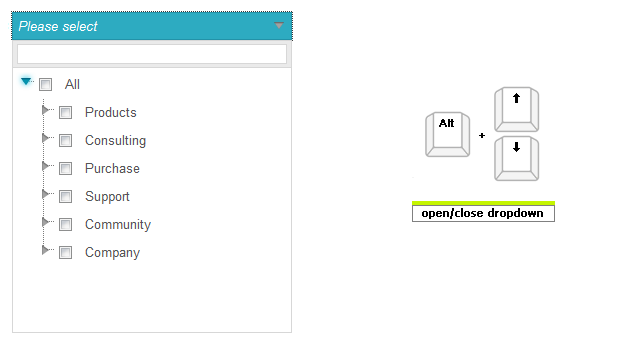
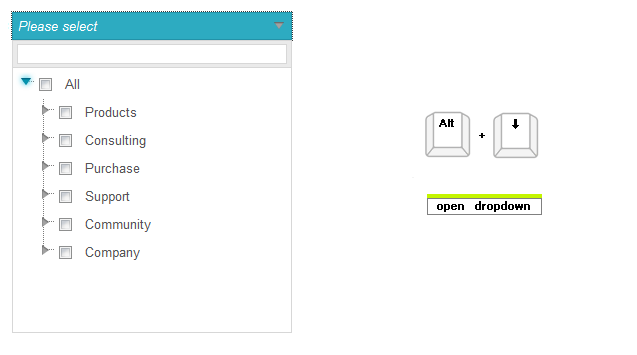
docs(dropDownTree): correct the keyboard navigation support

Changed region(s): [[0.6264, 0.2479, 0.8948, 0.6197]]

diff --git a/controls/dropdowntree/accessibility-and-internationalization/keyboard-support.md b/controls/dropdowntree/accessibility-and-internationalization/keyboard-support.md
@@ -14,19 +14,37 @@ position: 0
 
 ## Keyboard support
 
-As a part of Q2 2013 **RadDropDownTree** control introduces fully built-in **Keyboard Support**
+As a part of Q2 2013 **RadDropDownTree** control introduces fully built-in **Keyboard Support**. If you set a **TabIndex** to it, you can also focus it like a simple form input through the **Tab** key along with other inputs on the page.
 
-* **Access Keys** - You can specify a key that lets the end-users move the focus directly to the RadDropDownTree. The access key is defined using the **AccessKey** property. For example, if you set the **AccessKey** property to **"P"**, the focus moves to the DropDownTree when the user presses **"Alt+P"** (for IE).![dropdowntree-keyboardnavigation](images/dropdowntree-keyboardnavigation.png)
+The following list explains the specific behaviors and keyboard shortcuts you can use to navigate through the dropdown tree.
 
-* **Key Navigation**- RadDropDownTree allows end-users to navigate through the nodes in the dropdown.
+* **Access Key** - You can specify a key that moves the focus directly to the RadDropDownTree element. The access key is defined using the **AccessKey** property. For example, if you set the **AccessKey** property to **P**, the focus moves to the DropDownTree when the user presses **"Alt+P"** (for IE). While the focus is on this element, you can use **Tab** or **Shift** + **Tab** to move between all form elements.
 
-1. Use the **"Alt + DownArrow/UpArrow"** to open/close the dropdown or the Esc key (to close the dropdown when opened)![dropdowntree-expandcollapsedropdown](images/dropdowntree-expandcollapsedropdown.png)
+    ![dropdowntree-keyboardnavigation](images/dropdowntree-keyboardnavigation.png)
 
-1. Once the dropdown is opened you can move the focus to the filter field and then to the nodes by using the **"Tab"** key.![dropdowntree-forwardnavigation](images/dropdowntree-forwardnavigation.png)
+* **Key Navigation** - RadDropDownTree allows end-users to navigate through the nodes in the dropdown.
+    
+    1. When the main element of the drpodown tree is focused, use **Alt** + **Down Arrow** to open the dropdown.
+    
+        ![dropdowntree-expandcollapsedropdown](images/dropdowntree-expandcollapsedropdown.png)
+    
+    1. Once the dropdown is opened you can move the focus to the filter field and then to the nodes by using the **Down Arrow** key.
+    
+        ![dropdowntree-forwardnavigation](images/dropdowntree-gotodropdown.png)
+        
+        >note Once focus is on the treeview, to reach the filter textbox again, press the **AccessKey** and then **Down Arrow** once more. Alternatively, close the dropdown through **Esc** and open it again through **Alt** + **Down Arrow**, and press **Down Arrow**.
+    
+    1. After the focus is set to the tree, use the **Up Arrow** and **Down Arrow** to navigate up and down the tree and the **Right Arrow** and **Left Arrow** to expand and collapse the nodes. Using **Alt** + **+**/**-** also expands/collapses an item.
+    
+        ![dropdowntree-navigationupdown](images/dropdowntree-navigationupdown.png)
+        
+        ![dropdowntree-expandcollapsenode](images/dropdowntree-expandcollapsenode.png)
+        
+    1. When the focus is in the tree, start typing to get a "starts with" match for the nodes. The first node that matches the typed text will be focused. Once text no longer matches a node, the current node will remain focused.
+    
+    1. To close the dropdown,  press the **Esc** key. This will focus the main element so you can move out of the dropdown and through the rest of the form via **Tab** or **Shift** + **Tab**. You can also return to the main element by using its **Access Key**.
 
-1. After the focus is set to the dropdown the user can use the **UpArrow and DownArrows** to navigate up and down the tree and the **RightArrow and LeftArrow** to expand and collapse the nodes respectively.![dropdowntree-navigationupdown](images/dropdowntree-navigationupdown.png)![dropdowntree-expandcollapsenode](images/dropdowntree-expandcollapsenode.png)
-
-* **Action Key** -When the focus is set to a node, pressing the "Space" key checks the node.![dropdowntree-ckecknodes](images/dropdowntree-ckecknodes.png)
+* **Action Key** -When the focus is set to a node, pressing the **Space** key checks the node.![dropdowntree-ckecknodes](images/dropdowntree-ckecknodes.png)
 
 
 >caption  Key combinations supported by different browsers 
@@ -38,3 +56,8 @@ As a part of Q2 2013 **RadDropDownTree** control introduces fully built-in **Key
 | **Chrome** |Not Supported|Space|Tab|Shift + Tab|
 | **Safari** |Alt + **Access Key** (Alt + Shift + **Access Key** )|Space|Tab|Shift + Tab|
 | **Opera** |Not Supported|Space|Tab|Shift + Tab|
+
+## See Also
+
+* [Live Demo - RadDropDownTree Keyboard Support](https://demos.telerik.com/aspnet-ajax/dropdowntree/examples/functionality/keyboard-support/defaultcs.aspx)
+
